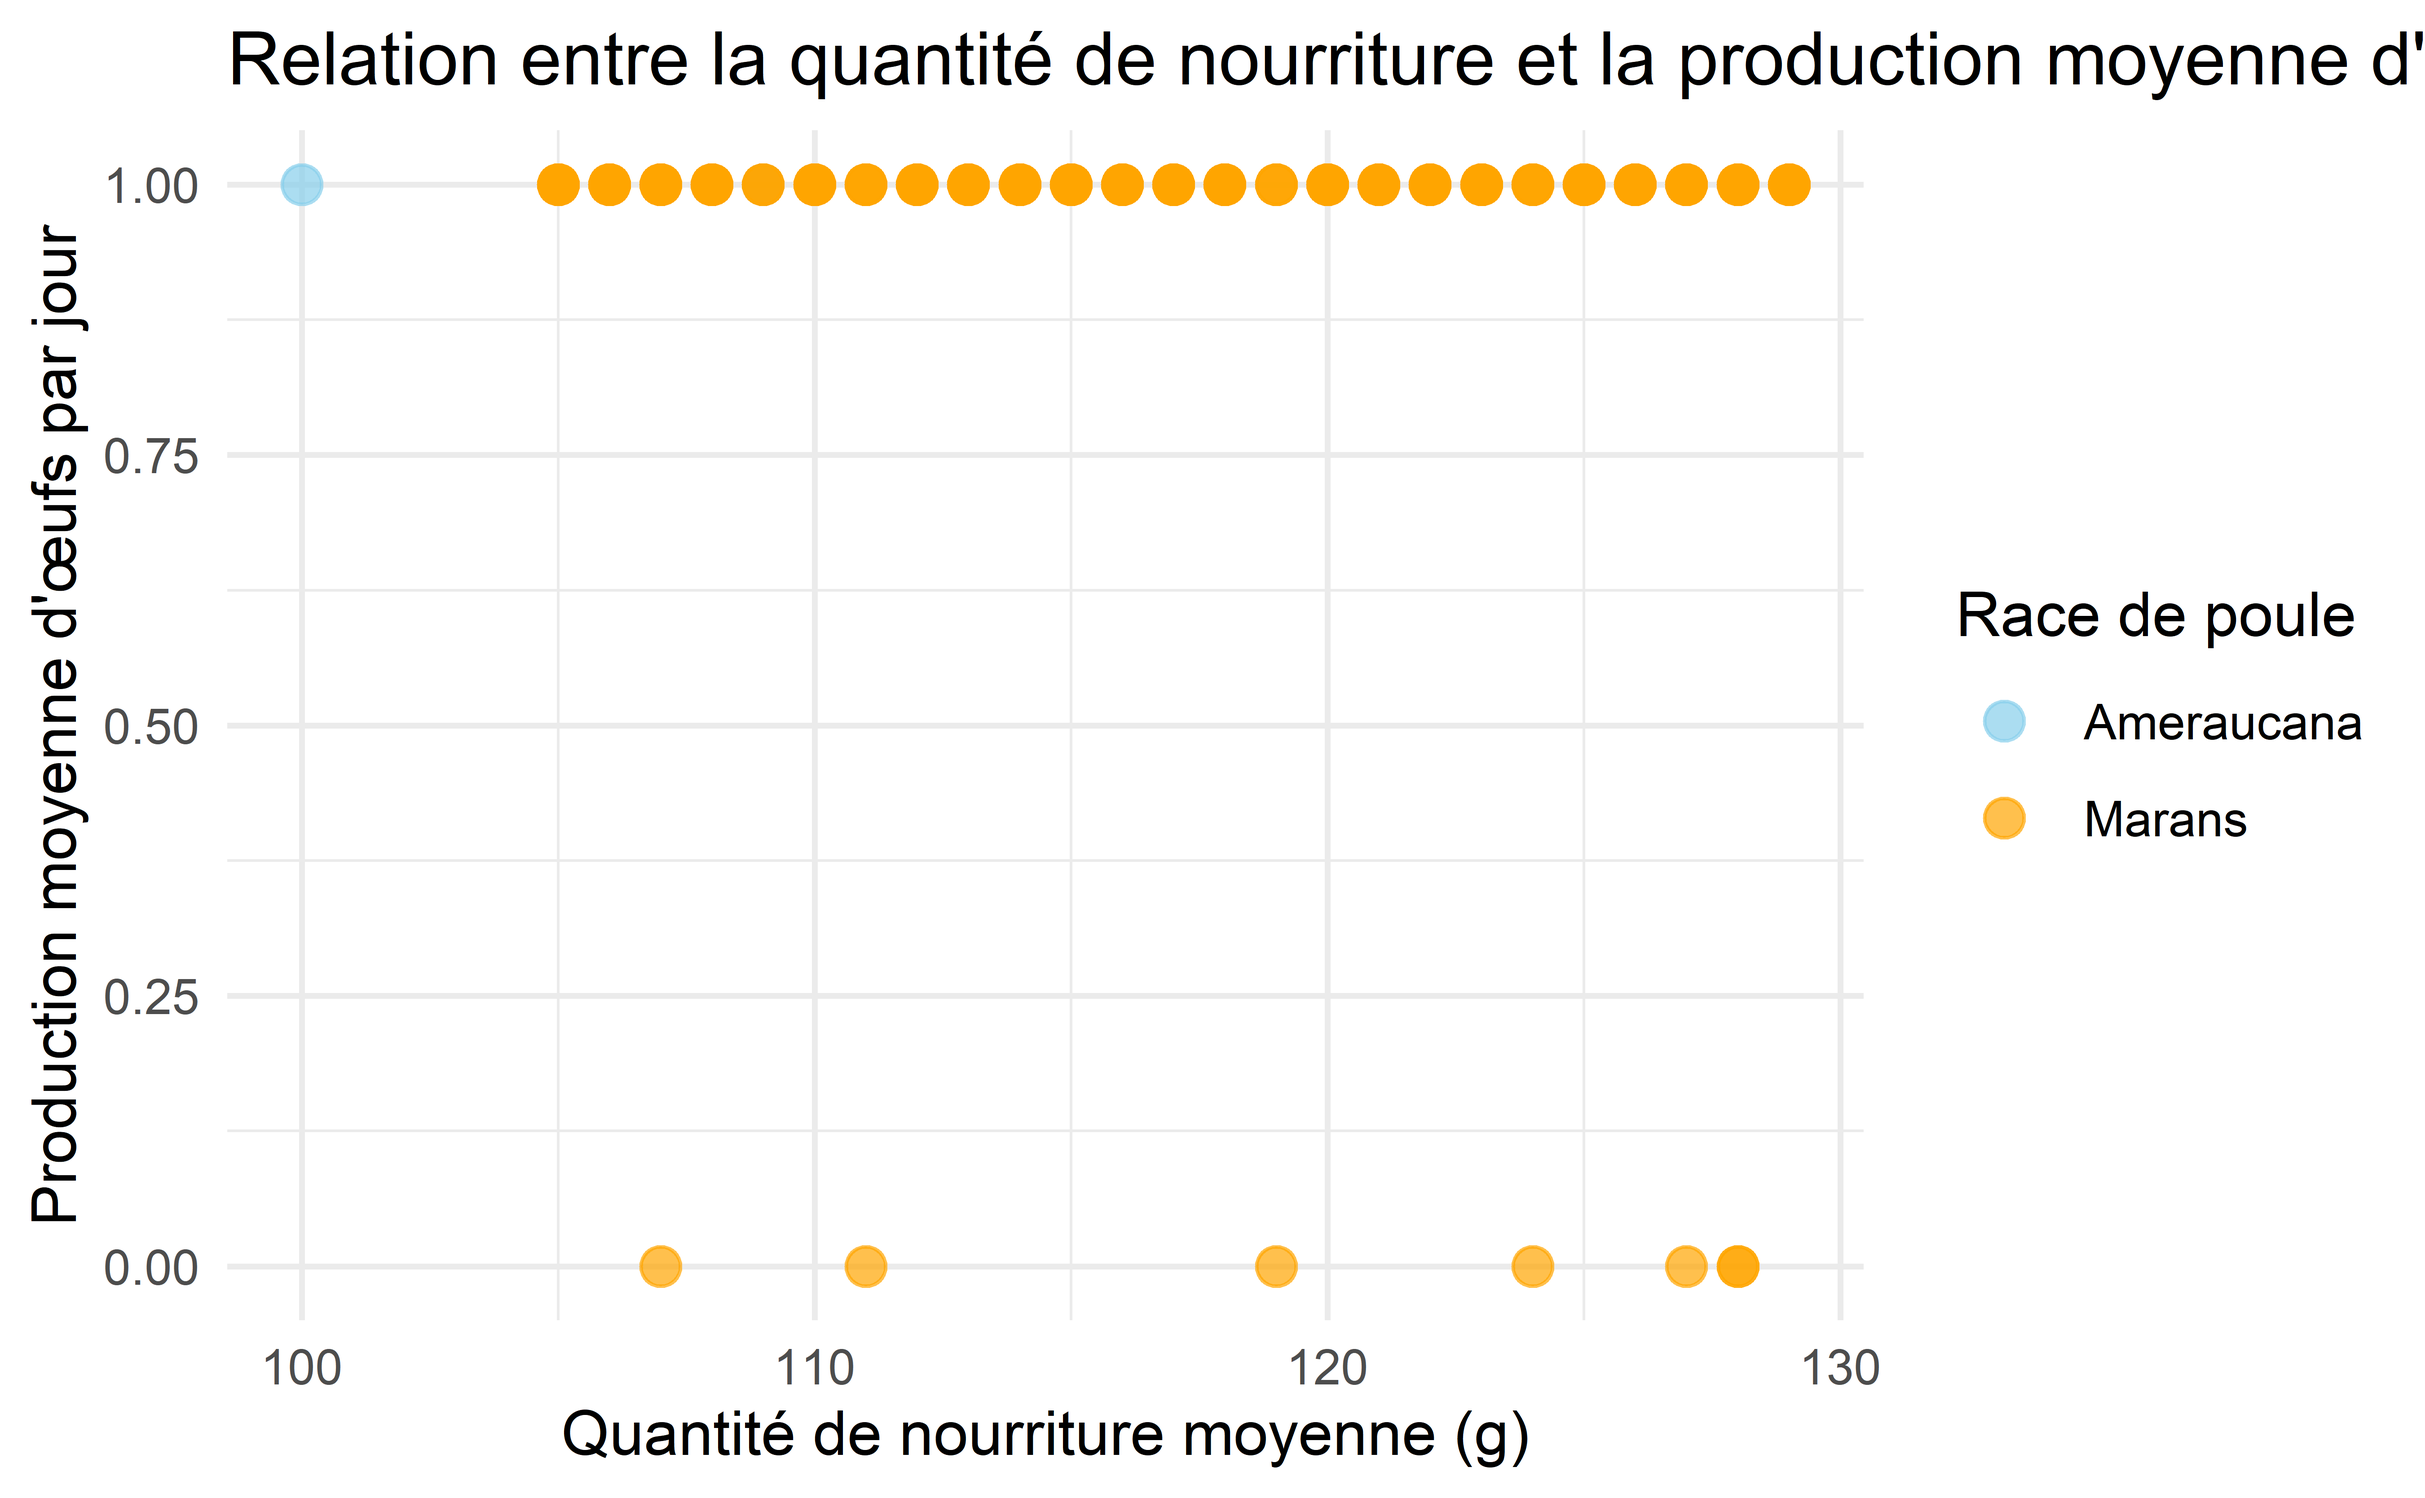
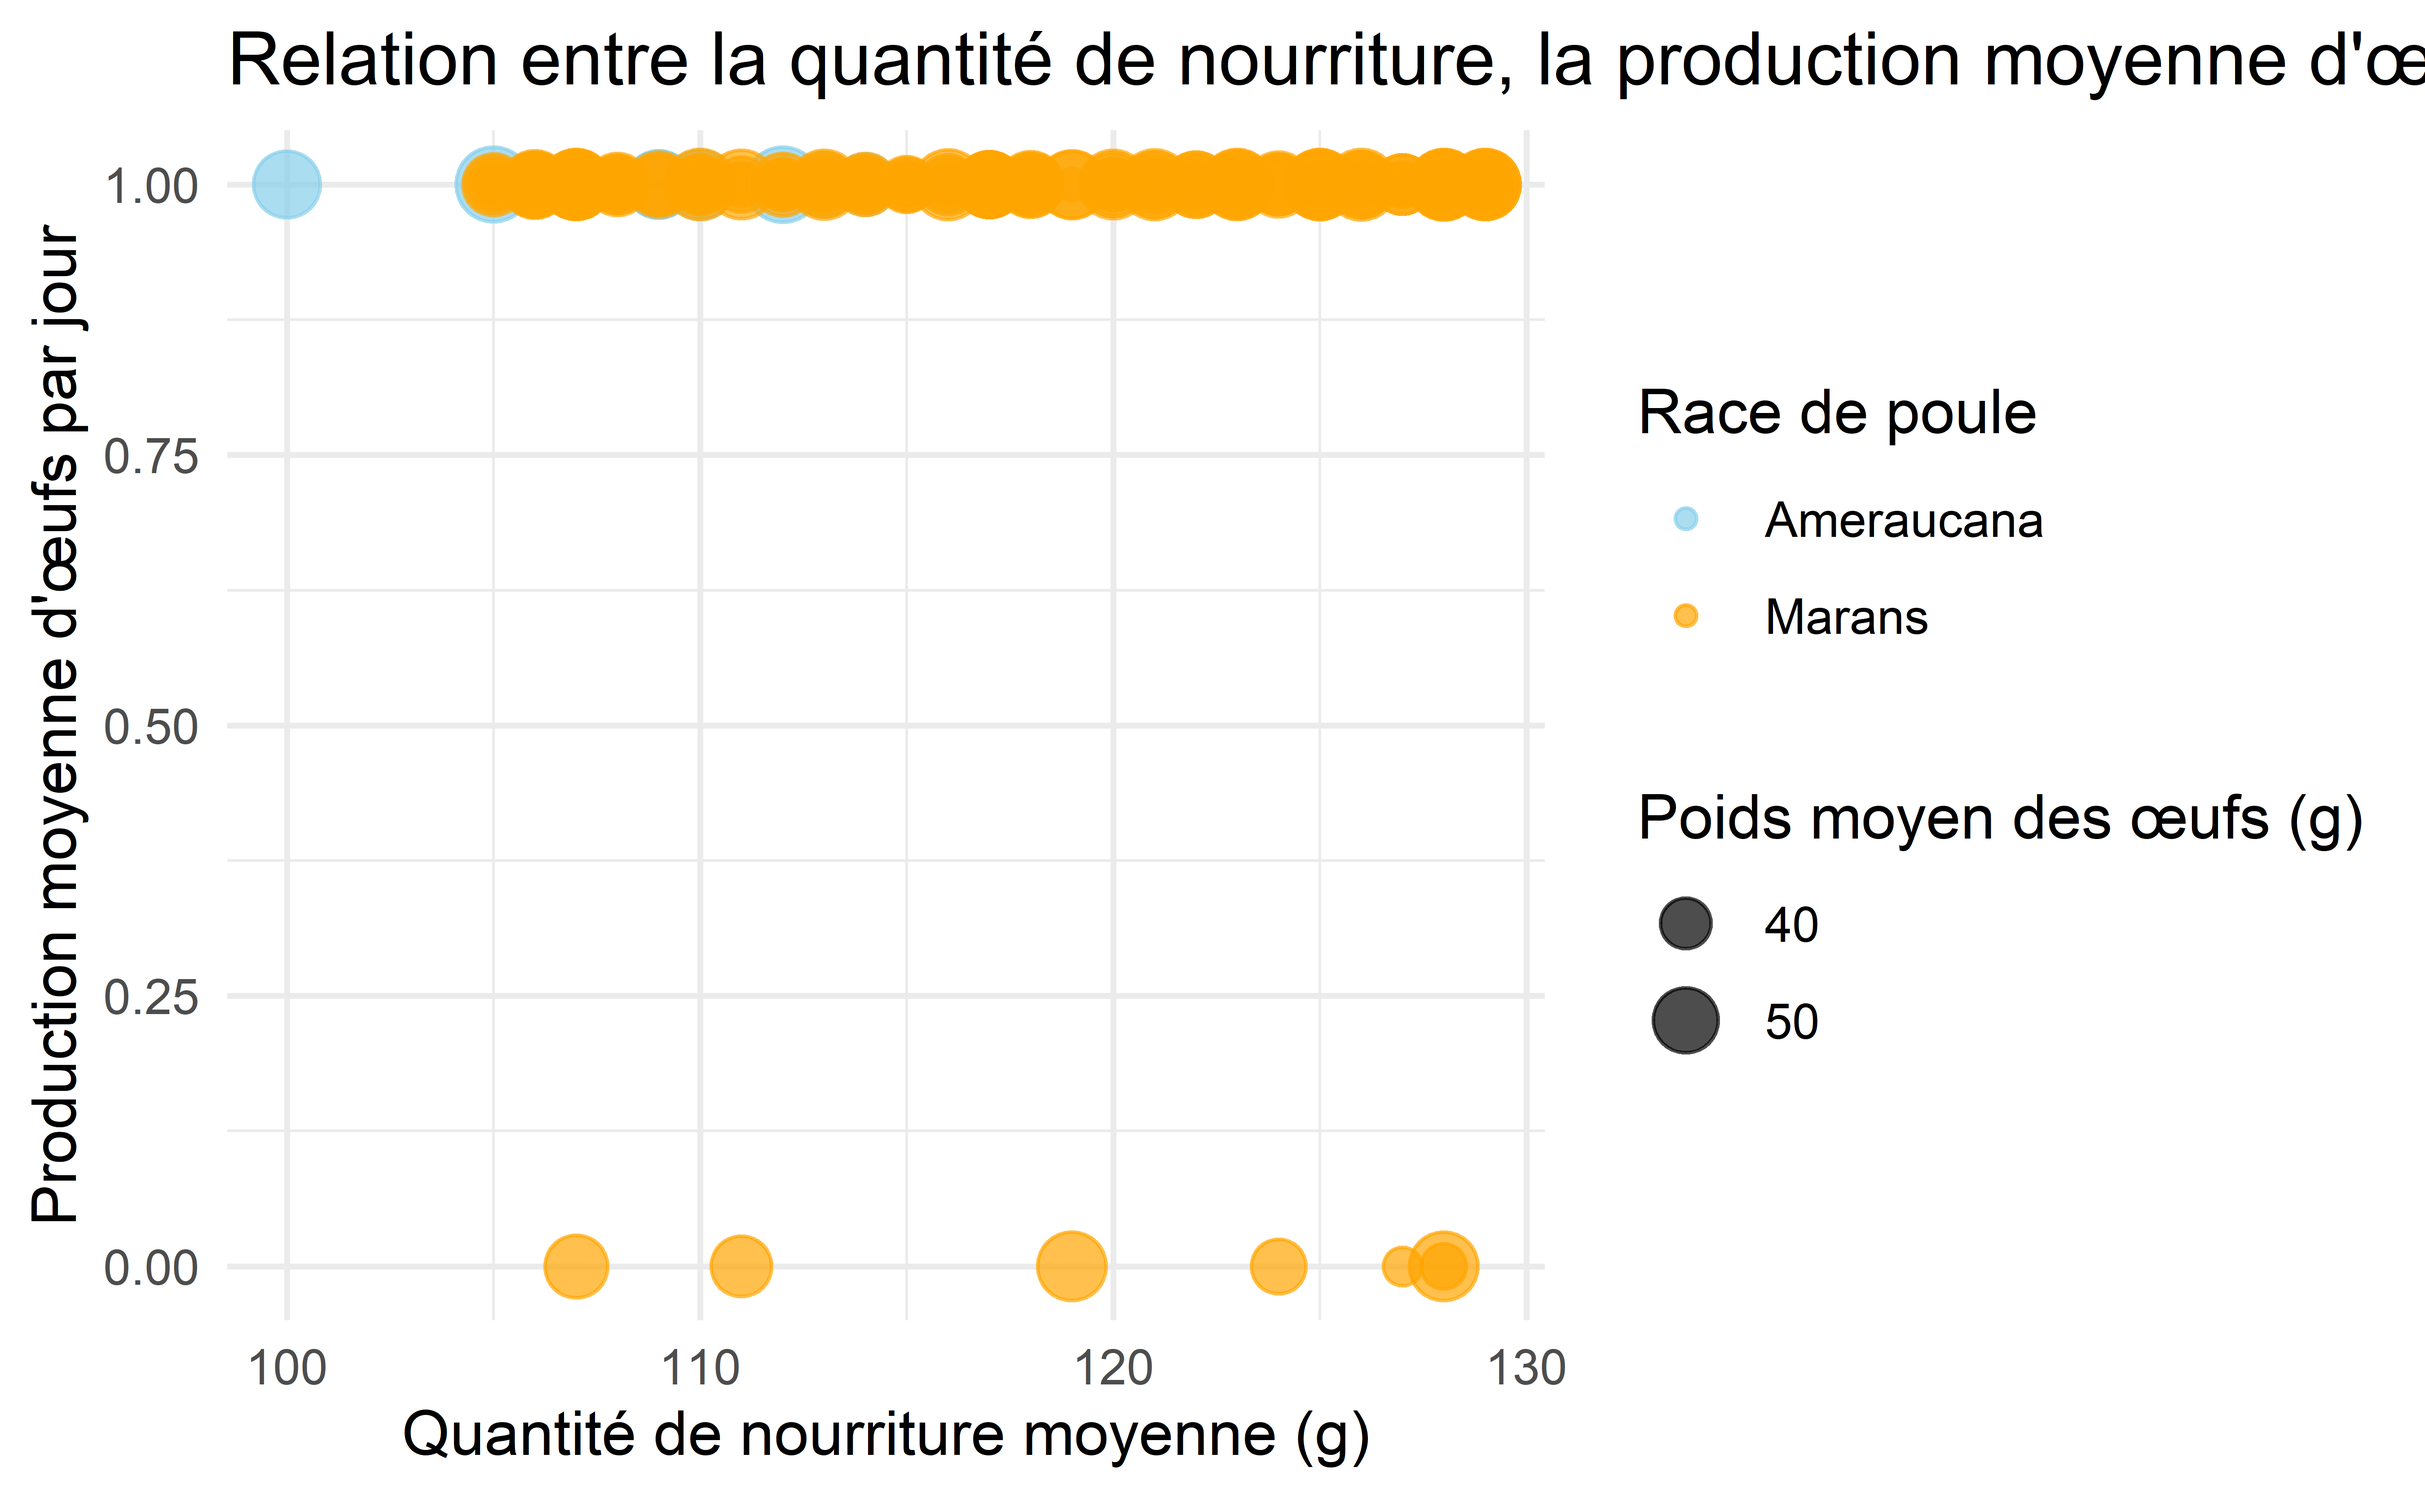
Analyse exploratoire termine

diff --git a/presentation/presentation.html b/presentation/presentation.html
@@ -4,7 +4,7 @@
     <title>Production d’œufs et conditions d’élevage</title>
     <meta charset="utf-8" />
     <meta name="author" content="Nom des membres de l’équipe" />
-    <meta name="date" content="2024-11-22" />
+    <meta name="date" content="2024-12-12" />
     <script src="libs/header-attrs-2.27/header-attrs.js"></script>
     <link rel="stylesheet" href="xaringan-themer.css" type="text/css" />
   </head>
@@ -25,7 +25,7 @@ class: center, middle, inverse, title-slide
 ### UQAC
 ]
 .date[
-### 2024-11-22
+### 2024-12-12
 ]
 
 ---
@@ -217,57 +217,53 @@ class: middle,  center
 
 &lt;img src="presentation_files/figure-html/unnamed-chunk-5-1.png" width="80%" /&gt;
 ---
+### **Interprétation 🐔**
+
+- **Ameraucana** :
+  - Consomment entre **100 g et 115 g** de nourriture par jour.
+  - Maintiennent un **taux de ponte élevé**, exactement de **1 œuf par jour**.
+  - Produisent des œufs **plus gros**, ce qui les positionne comme une race efficace.
+
+- **Marans** :
+  - Consomment entre **105 g et 130 g** de nourriture par jour.
+  - Affichent une **variabilité importante** dans la production d'œufs, quel que soit le niveau de nourriture.
+  - Les œufs sont plus petits comparés à ceux des Ameraucana.
+
+### **Conclusion** :
+Les **Ameraucana** se distinguent par une consommation modérée et des performances élevées (grande taille des œufs et taux de ponte stable). Elles semblent être une **option optimale** pour la production. Les **Marans**, bien que plus gourmandes, montrent des résultats moins homogènes.
+
+---
 &lt;img src="presentation_files/figure-html/unnamed-chunk-6-1.png" width="80%" /&gt;
 ---
 
-# Code
 
 
-``` r
-# une régression ennuyeuse
-model &lt;- lm(dist ~ speed, data = cars)
-tidy(model)
-```
-
-```
-## # A tibble: 2 × 5
-##   term        estimate std.error statistic  p.value
-##   &lt;chr&gt;          &lt;dbl&gt;     &lt;dbl&gt;     &lt;dbl&gt;    &lt;dbl&gt;
-## 1 (Intercept)   -17.6      6.76      -2.60 1.23e- 2
-## 2 speed           3.93     0.416      9.46 1.49e-12
-```
-
-``` r
-glance(model)
-```
-
-```
-## # A tibble: 1 × 12
-##   r.squared adj.r.squared sigma statistic  p.value    df logLik   AIC   BIC
-##       &lt;dbl&gt;         &lt;dbl&gt; &lt;dbl&gt;     &lt;dbl&gt;    &lt;dbl&gt; &lt;dbl&gt;  &lt;dbl&gt; &lt;dbl&gt; &lt;dbl&gt;
-## 1     0.651         0.644  15.4      89.6 1.49e-12     1  -207.  419.  425.
-## # ℹ 3 more variables: deviance &lt;dbl&gt;, df.residual &lt;int&gt;, nobs &lt;int&gt;
-```
+&lt;img src="presentation_files/figure-html/boring-regression -1.png" width="80%" /&gt;
 
 ---
+### Interpretation 🐔
 
-# Plots
+##### Ameraucana 🥚
+- **Production moyenne constante** : La production d'œufs est stable à **1 œuf par jour**, quel que soit le niveau d'exposition au soleil.
+- **Indépendance environnementale** : Cette régularité élevée suggère que la race **Ameraucana** n'est pas significativement influencée par les heures d'exposition au soleil.
+
+##### Marans 🌞
+- **Sensibilité à l'exposition** : Une tendance montre que les poules **Marans** ayant plus d'heures d'exposition au soleil augmentent légèrement leur production d'œufs.
+- **Variabilité observée** : Contrairement aux Ameraucana, la production des Marans varie davantage et semble être influencée par des facteurs environnementaux.
 
 
+### Conclusion 🎯
 
-&lt;img src="presentation_files/figure-html/plot-iris-1.png" width="80%" /&gt;
+- **Ameraucana** : Cette race maintient une **production optimale** sans dépendre des facteurs environnementaux comme l'exposition au soleil.
+- **Marans** : Cette race semble **bénéficier d'une exposition accrue au soleil**, bien que d'autres facteurs externes ou biologiques puissent également jouer un rôle dans cette variabilité.
 
 ---
+class: inverse, middle, center
 
-## Plot et texte
 
-.pull-left[
-- Du texte
-- ici
-]
-.pull-right[
-&lt;img src="presentation_files/figure-html/unnamed-chunk-7-1.png" width="100%" /&gt;
-]
+
+# **Méthodes statistiques envisagées**
+
 
 ---
 
